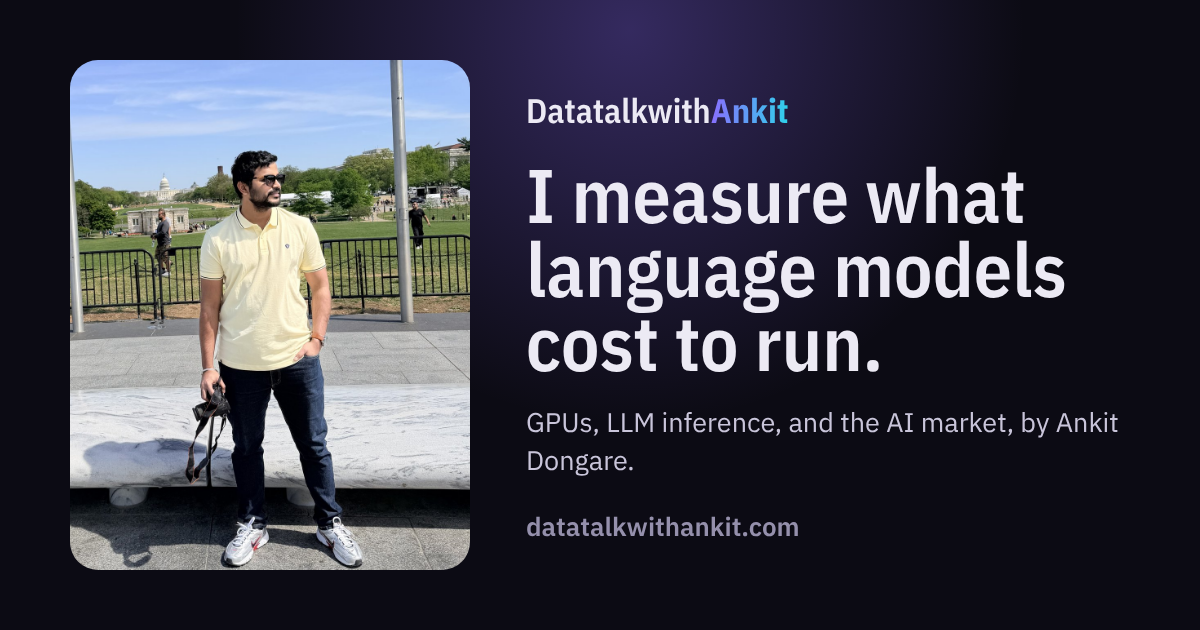
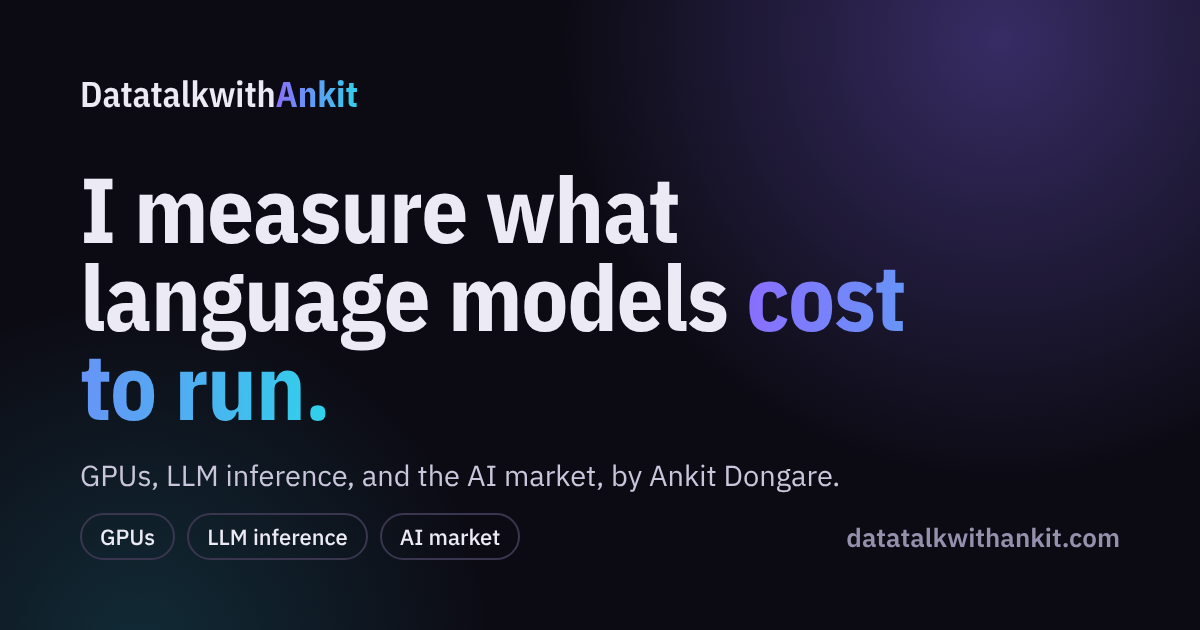
Remove personal photos; add GPU price board to the hero
- Hero shows a live price board for 7 GPUs instead of a photo
- About shows credentials beside the text; casual photos removed
- Monogram avatar on post bylines
- Text-only social preview image

Claude-Session: https://claude.ai/code/session_01FKELSnSZEF1okL7UdgfHhF

diff --git a/datatalkwithankit/index.html b/datatalkwithankit/index.html
@@ -29,7 +29,7 @@
 <link rel="stylesheet" href="https://fonts.googleapis.com/css2?family=IBM+Plex+Mono:wght@400;500&family=IBM+Plex+Sans+Condensed:wght@500;600;700&family=IBM+Plex+Sans:ital,wght@0,400;0,500;0,600;1,400&display=swap">
 <link rel="stylesheet" href="/style.css">
 <script defer src="/_vercel/insights/script.js"></script>
-<script type="application/ld+json">{"@context": "https://schema.org", "@type": "Person", "name": "Ankit Dongare", "url": "https://www.datatalkwithankit.com", "jobTitle": "AI Engineer", "image": "https://www.datatalkwithankit.com/images/ankit-hero.jpg", "sameAs": ["https://github.com/Ankycritica", "https://youtube.com/@datatalkwithankit", "https://instagram.com/datatalkwithankit", "https://aurapal.org"]}</script>
+<script type="application/ld+json">{"@context": "https://schema.org", "@type": "Person", "name": "Ankit Dongare", "url": "https://www.datatalkwithankit.com", "jobTitle": "AI Engineer", "sameAs": ["https://github.com/Ankycritica", "https://youtube.com/@datatalkwithankit", "https://instagram.com/datatalkwithankit", "https://aurapal.org"]}</script>
 </head>
 <body>
 <header class="site-head">
@@ -45,10 +45,6 @@
 <main>
 <section class="hero">
   <div class="wrap hero-grid">
-    <figure class="portrait">
-      <img src="/images/ankit-hero.jpg" alt="Ankit Dongare on the National Mall, with the US Capitol behind him" width="1000" height="1250" fetchpriority="high">
-      <figcaption>Washington, DC</figcaption>
-    </figure>
     <div>
       <p class="hero-who">Ankit Dongare, AI engineer</p>
       <h1>I measure what language models cost to run.</h1>
@@ -62,6 +58,20 @@
         <a href="/posts/h200-vs-mi300x">H200 vs MI300X: what you're actually paying for</a>
       </div>
     </div>
+    <aside class="board" aria-labelledby="board-title">
+      <div class="board-head">
+        <h2 id="board-title">GPU price board</h2>
+        <span>Lowest on-demand $/GPU-hour &middot; Oct 12, 2026</span>
+      </div>
+      <div class="board-row nv"><span class="bn">NVIDIA H100<small>80 GB</small></span><span class="bb"><i style="width:29%"></i></span><span class="bp">$1.71</span></div>
+      <div class="board-row nv"><span class="bn">NVIDIA H200<small>141 GB</small></span><span class="bb"><i style="width:35%"></i></span><span class="bp">$2.09</span></div>
+      <div class="board-row amd"><span class="bn">AMD MI325X<small>256 GB</small></span><span class="bb"><i style="width:38%"></i></span><span class="bp">$2.25</span></div>
+      <div class="board-row amd"><span class="bn">AMD MI300X<small>192 GB</small></span><span class="bb"><i style="width:40%"></i></span><span class="bp">$2.39</span></div>
+      <div class="board-row nv"><span class="bn">NVIDIA B200<small>180 GB</small></span><span class="bb"><i style="width:63%"></i></span><span class="bp">$3.75</span></div>
+      <div class="board-row nv"><span class="bn">NVIDIA B300<small>288 GB</small></span><span class="bb"><i style="width:83%"></i></span><span class="bp">$4.99</span></div>
+      <div class="board-row amd"><span class="bn">AMD MI355X<small>288 GB</small></span><span class="bb"><i style="width:100%"></i></span><span class="bp">$5.99</span></div>
+      <a class="board-link" href="/gpu-guide">Compare all 7 in the GPU guide</a>
+    </aside>
   </div>
 </section>
 
@@ -255,16 +265,14 @@
         <p>I started as a data analyst turning messy tables into answers, and kept following the harder questions until they led to building AI systems full time.</p>
         <p>Today I work on the practical side of large language models: how they're served, how fast they run, what they cost, and how configuration choices change all three. At work I benchmark and evaluate an enterprise LLM inference platform, measuring throughput, latency, and cost across models, serving configs, and hardware.</p>
         <p>That data background still shapes how I work. I trust measurements over opinions, and if I do something twice, I write a script for it.</p>
+        <p class="stack-line">Day to day: Python, PyTorch, vLLM, Hugging Face, Docker, and AWS. The full list is on the <a class="link" href="/uses">uses page</a>.</p>
+      </div>
+      <div>
         <ul class="creds">
           <li><strong>Inference benchmarking</strong>Evaluating an enterprise LLM inference platform at work</li>
           <li><strong>Product builder</strong>Designs, ships, and runs <a class="link" href="https://aurapal.org">Aurapal</a> in production</li>
           <li><strong>Engineer by training</strong>Mechanical engineering degree, then data analytics, then AI</li>
         </ul>
-        <p class="stack-line">Day to day: Python, PyTorch, vLLM, Hugging Face, Docker, and AWS. The full list is on the <a class="link" href="/uses">uses page</a>.</p>
-      </div>
-      <div class="about-photos">
-        <img src="/images/ankit-2.jpg" alt="Ankit Dongare outdoors with a dog" width="1600" height="1152" loading="lazy">
-        <img src="/images/ankit-3.jpg" alt="Ankit Dongare with the New York City skyline behind him" width="1600" height="1152" loading="lazy">
       </div>
     </div>
   </div>

diff --git a/datatalkwithankit/style.css b/datatalkwithankit/style.css
@@ -317,3 +317,26 @@ a.post-row:hover h3{text-decoration:underline;text-underline-offset:4px;text-dec
 .fit-table[hidden]{display:none}
 .fit-table td{font-variant-numeric:tabular-nums}
 @media (max-width:760px){.fit-blocks{gap:6px;min-height:50px}.gpu{width:30px;height:46px}}
+
+/* ---------- hero without photo ---------- */
+.hero-grid{grid-template-columns:1.1fr .9fr}
+.hero h1{max-width:14ch}
+.board{background:var(--panel);border:1px solid var(--line);border-radius:20px;padding:22px 22px 18px}
+.board-head{margin-bottom:12px}
+.board-head h2{font-size:1.35rem}
+.board-head span{display:block;color:var(--muted);font-size:.84rem;margin-top:4px}
+.board-row{display:grid;grid-template-columns:118px 1fr 58px;gap:12px;align-items:center;padding:9px 0;border-top:1px solid var(--line);font-size:.92rem}
+.board-row .bn{font-weight:600;line-height:1.2}
+.board-row .bn small{display:block;color:var(--muted);font-weight:400;font-size:.78rem}
+.board-row .bb{height:8px;border-radius:99px;background:var(--bg);overflow:hidden}
+.board-row .bb i{display:block;height:100%;border-radius:99px}
+.board-row.nv .bb i{background:var(--violet)}
+.board-row.amd .bb i{background:var(--cyan)}
+.board-row .bp{text-align:right;font-family:var(--mono);font-size:.86rem}
+.board-link{display:inline-block;margin-top:12px;font-weight:600;font-size:.92rem;text-decoration:none}
+.board-link::after{content:" \2192";color:var(--violet)}
+.board-link:hover{text-decoration:underline;text-underline-offset:4px}
+.avatar{display:grid;place-items:center;width:40px;height:40px;border-radius:50%;background:var(--grad);color:#fff;font-family:var(--display);font-weight:700;font-size:.95rem;flex:none}
+.about-grid .creds{margin-top:0}
+@media (max-width:900px){.hero-grid{grid-template-columns:1fr}}
+.hero h1{max-width:none;font-size:clamp(2.6rem,4.6vw,4.3rem)}

diff --git a/datatalkwithankit/gpu-guide.html b/datatalkwithankit/gpu-guide.html
@@ -48,7 +48,7 @@
   <p class="kicker-line">Living guide &middot; Last updated Oct 12, 2026</p>
   <h1>Which GPU should you rent for LLM inference?</h1>
   <div class="byline-row">
-    <img src="/images/ankit-hero.jpg" alt="" width="40" height="40">
+    <span class="avatar" aria-hidden="true">AD</span>
     <div><strong>Ankit Dongare</strong>Covers 7 data-center GPUs. Updated every quarter.</div>
   </div>
   <div class="prose">

diff --git a/datatalkwithankit/posts/h200-vs-mi300x.html b/datatalkwithankit/posts/h200-vs-mi300x.html
@@ -50,7 +50,7 @@
   <a class="crumb" href="/blog">Back to all writing</a>
   <h1>H200 vs MI300X: what you're actually paying for</h1>
   <div class="byline-row">
-    <img src="/images/ankit-hero.jpg" alt="" width="40" height="40">
+    <span class="avatar" aria-hidden="true">AD</span>
     <div><strong>Ankit Dongare</strong>Aug 21, 2026, 9 minute read</div>
   </div>
   <div class="prose">
